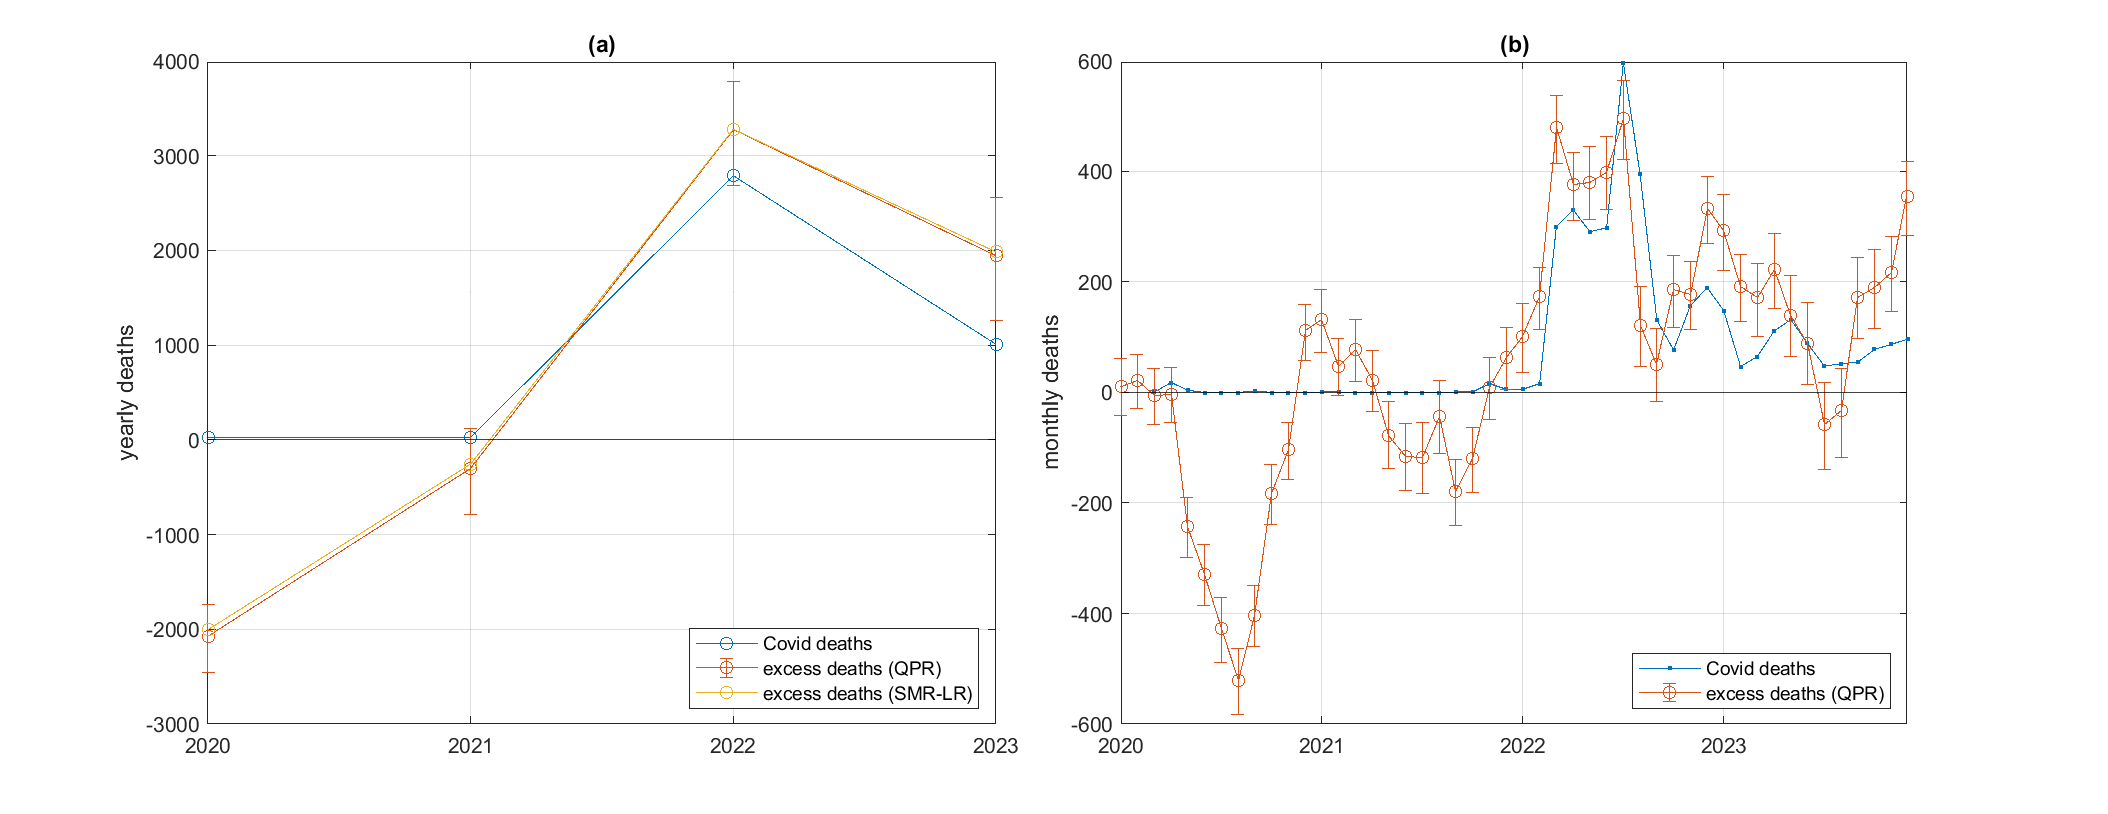
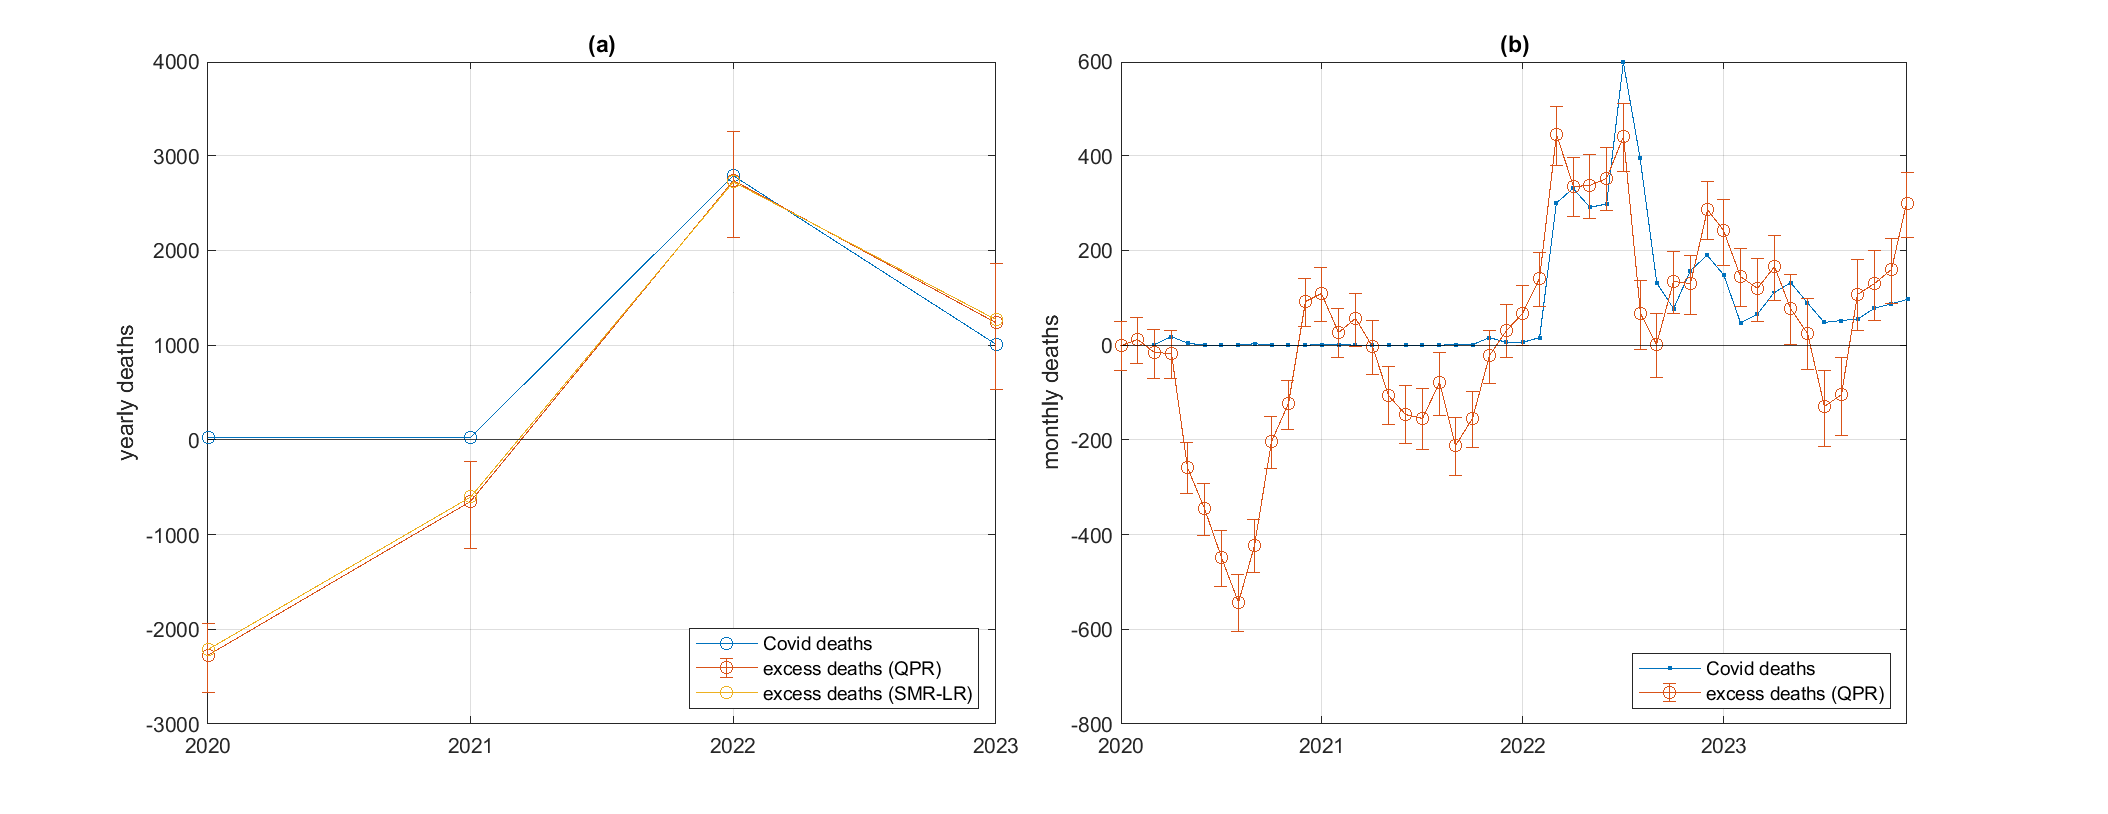
Added comparison plotting functionality
main now saves results for the selected scenario to enable plotting a comparison between the results using 2018 and 2023 ERP (done by plotComparisonGraphs.m)

diff --git a/Matlab/plotComparisonGraphs.m b/Matlab/plotComparisonGraphs.m
@@ -1,0 +1,64 @@
+clear
+close all
+
+% Folder and file locations 
+resultsFolder = "../results/";
+fIn2018 = resultsFolder + "results_ERP_2018_base.mat";
+fIn2023 = resultsFolder + "results_ERP_2023_base.mat";
+
+% Read in results for ERP 2018 base and 2023 base
+read2018 = load(fIn2018);
+read2023 = load(fIn2023);
+
+lightBlue = [0.7 0.7 1];
+lightRed = [1 0.7 0.7];
+
+% Plot expected and actual deaths in 10 year age bands
+ages = 0:10:90;
+nAges = length(ages);
+tRange = [2014, 2023];
+Alpha = 0.4;
+
+h = figure(1);
+h.Position = [95    89   904   879];
+tiledlayout(4, 3, "TileSpacing", "compact");
+for iAge = 1:nAges
+    nexttile;
+    ind2018 = read2018.results10.age10 == ages(iAge);
+    ind2023 = read2023.results10.age10 == ages(iAge);
+    [x, y] = getFillArgs(read2018.results10.Year(ind2018), read2018.results10.dCI(ind2018, 1), read2018.results10.dCI(ind2018, 2)); 
+    fill(x, y, lightBlue, 'LineStyle', 'none', 'FaceAlpha', Alpha, 'HandleVisibility', 'off' )
+    hold on
+    [x, y] = getFillArgs(read2023.results10.Year(ind2023), read2023.results10.dCI(ind2023, 1), read2023.results10.dCI(ind2023, 2)); 
+    fill(x, y, lightRed, 'LineStyle', 'none', 'FaceAlpha', Alpha, 'HandleVisibility', 'off' )
+    plot(read2018.results10.Year(ind2018), read2018.results10.dMean(ind2018), 'b-' )
+    plot(read2023.results10.Year(ind2023), read2023.results10.dMean(ind2023), 'r-' )
+    plot(read2023.results10.Year(ind2023), read2023.results10.deaths(ind2023), 'k.' )
+    xline(2019.5, 'k--')
+    xlim(tRange)
+    grid on
+    ylabel('yearly deaths')
+    if iAge < nAges
+        title(sprintf('%i-%i years', ages(iAge), ages(iAge)+9 ))
+    else
+        title('90+ years')
+    end
+end
+nexttile;
+[x, y] = getFillArgs(read2018.resultsYearly.Year, read2018.resultsYearly.dCI(:, 1), read2018.resultsYearly.dCI(:, 2)); 
+fill(x, y, lightBlue, 'LineStyle', 'none', 'FaceAlpha', Alpha, 'HandleVisibility', 'off' )
+hold on
+[x, y] = getFillArgs(read2023.resultsYearly.Year, read2023.resultsYearly.dCI(:, 1), read2023.resultsYearly.dCI(:, 2)); 
+fill(x, y, lightRed, 'LineStyle', 'none', 'FaceAlpha', Alpha, 'HandleVisibility', 'off' )
+plot(read2018.resultsYearly.Year, read2018.resultsYearly.dMean, 'b-' )
+plot(read2023.resultsYearly.Year, read2023.resultsYearly.dMean, 'r-' )
+plot(read2023.resultsYearly.Year, read2023.resultsYearly.deaths, 'k.' )
+xline(2019.5, 'k--')
+xlim(tRange)
+grid on
+ylabel('yearly deaths')
+title('total all ages')
+leg = legend('expected deaths (ERP 2018 base)', 'expected deaths (ERP 2023 base)', 'actual deaths');
+leg.Layout.Tile = 12;
+
+

diff --git a/Matlab/plotGraphs.m b/Matlab/plotGraphs.m
@@ -6,6 +6,7 @@ plotTitles = ["(a)", "(b)", "(c)", "(d)", "(e)", "(f)"];
 
 colOrd =colororder;
 lightBlue = [0.7 0.8 0.95];
+lightRed = [0.95 0.8 0.7];
 
 % Total aggregate deaths
 h = figure(1);
@@ -207,4 +208,45 @@ saveas(gcf, resultsFolder+"SuppFig1.png");
 
 
 
+% Plot expected and actual deaths in 10 year age bands
+ages = 0:10:90;
+nAges = length(ages);
+tRange = [2014, 2023];
+
+h = figure(6);
+h.Position = [95    89   904   879];
+tiledlayout(4, 3, "TileSpacing", "compact");
+for iAge = 1:nAges
+    nexttile;
+    ind = results10.age10 == ages(iAge);
+    [x, y] = getFillArgs(results10.Year(ind), results10.dCI(ind, 1), results10.dCI(ind, 2)); 
+    fill(x, y, lightBlue, 'LineStyle', 'none', 'FaceAlpha', 0.5, 'HandleVisibility', 'off' )
+    hold on
+    plot(results10.Year(ind), results10.dMean(ind), 'b-' )
+    plot(results10.Year(ind), results10.deaths(ind), 'k.' )
+    xline(2019.5, 'k--')
+    xlim(tRange)
+    grid on
+    ylabel('yearly deaths')
+    if iAge < nAges
+        title(sprintf('%i-%i years', ages(iAge), ages(iAge)+9 ))
+    else
+        title('90+ years')
+    end
+end
+nexttile;
+[x, y] = getFillArgs(resultsYearly.Year, resultsYearly.dCI(:, 1), resultsYearly.dCI(:, 2)); 
+fill(x, y, lightBlue, 'LineStyle', 'none', 'FaceAlpha', 0.5, 'HandleVisibility', 'off' )
+hold on
+plot(resultsYearly.Year, resultsYearly.dMean, 'b-' )
+plot(resultsYearly.Year, resultsYearly.deaths, 'k.' )
+xline(2019.5, 'k--')
+xlim(tRange)
+grid on
+ylabel('yearly deaths')
+title('total all ages')
+leg = legend('expected deaths', 'actual deaths');
+leg.Layout.Tile = 12;
+
+drawnow
 

diff --git a/Matlab/plotPopComparison.m b/Matlab/plotPopComparison.m
@@ -6,7 +6,7 @@ dataFolder = "../data/";
 
 
 % Data file names
-fNamePop2018 = dataFolder + "infoshare_ERP_quarterly.csv";
+fNamePop2018 = dataFolder + "infoshare_ERP_quarterly_2018_base.csv";
 fNamePop2023 = dataFolder + "infoshare_ERP_quarterly_2023_base.csv";
 
 % Read population data (admin pop data needs a call to a different function
@@ -56,7 +56,36 @@ plot(popTot2023.t, popTot2023.sum_sum_popSize, '.-')
 grid on
 xlim(tRange)
 ylabel('population size')
-title('total population')
+title('total all ages')
 leg = legend('original (ERP 2018 base)', 'updated (ERP 2023 base)');
 leg.Layout.Tile = 12;
 
+
+
+
+h = figure(2);
+h.Position = [95    89   904   879];
+tiledlayout(4, 3, "TileSpacing", "compact");
+for iAge = 1:nAges
+    nexttile;
+    ind = popData2018.age10 == ages(iAge);
+    plot(popData2018.t(ind), 100*(popData2023.sum_popSize(ind)./popData2018.sum_popSize(ind) - 1), '.-')
+    yline(0, 'k-')
+    ylabel('change in pop estmiate (%)')
+    xlim(tRange)
+    ylim([-5 1])
+    grid on
+    if iAge < nAges
+        title(sprintf('%i-%i years', ages(iAge), ages(iAge)+9 ))
+    else
+        title('90+ years')
+    end
+end
+nexttile;
+plot(popTot2018.t, 100*(popTot2023.sum_sum_popSize./popTot2018.sum_sum_popSize - 1), '.-')
+yline(0, 'k-')
+xlim(tRange)
+ylim([-5 1])
+grid on
+ylabel('change in pop estmiate (%)')
+title('total all ages')

diff --git a/Matlab/main.m b/Matlab/main.m
@@ -24,7 +24,7 @@ dataFolder = "../data/";
 resultsFolder = "../results/";
 
 % Data file names
-fNamePop = dataFolder + "infoshare_ERP_quarterly_2023_base.csv";
+fNamePop = dataFolder + "infoshare_ERP_quarterly_2018_base.csv";
 fNameCovidAge = dataFolder + "covid19_deaths_data_by_age.csv";
 fNameCovidSex = dataFolder + "covid19_deaths_data_by_sex.csv";
 
@@ -107,6 +107,12 @@ for iScenario = 1:nScenarios
     %%%%%%%%%%%%%%%%%%%%%%%%%%%%%%%%%%%%%%%%%%%%%%%%%%%%%%%%%%%%%%%%%%%%%%
     if plotFlag(iScenario)
         plotGraphs(tbl, resultsYearly, resultsMonthly, results10, resultsClasses, resultsSex, covidData, FIT_TO_YEAR, baselineYears(iScenario), ORIGIN_YEAR, covidAgeBreaks, resultsFolder);
+
+        % Save results10 and resultsYearly tables for reading back in and plotting comparison between ERP 2018 and 2023
+        fileLbl = extractBefore(extractAfter(fNamePop, "quarterly_"), ".csv");
+        fOut = resultsFolder + "results_ERP_" + fileLbl + ".mat";
+        save(fOut, 'results10', 'resultsYearly');
+
     end
 end
 

diff --git a/results/supp_table.tex b/results/supp_table.tex
@@ -2,12 +2,12 @@
 \hline
 Baseline period & \multicolumn{3}{l}{Excess (QPR)} & Excess (SMR-LR) \\ 
 \hline
-2016--2019    &    -1124 [ & -3199, & 622]   &   -923 \\ 
-2015--2019    &    428 [ & -1198, & 1937]   &   577 \\ 
-2014--2019    &    899 [ & -556, & 2153]   &   1021 \\ 
-2013--2019    &    -202 [ & -1498, & 969]   &   -282 \\ 
-2012--2019    &    703 [ & -450, & 1729]   &   804 \\ 
-2011--2019    &    1732 [ & 700, & 2674]   &   1957 \\ 
-2010--2019    &    1214 [ & 254, & 2070]   &   1317 \\ 
+2016--2019    &    -1984 [ & -4080, & -213]   &   -1812 \\ 
+2015--2019    &    -569 [ & -2214, & 961]   &   -443 \\ 
+2014--2019    &    -195 [ & -1668, & 1081]   &   -93 \\ 
+2013--2019    &    -1385 [ & -2695, & -200]   &   -1496 \\ 
+2012--2019    &    -526 [ & -1687, & 512]   &   -456 \\ 
+2011--2019    &    464 [ & -581, & 1421]   &   660 \\ 
+2010--2019    &    -98 [ & -1069, & 769]   &   -26 \\ 
 \hline
 \end{tabular}

diff --git a/results/table.tex b/results/table.tex
@@ -2,12 +2,12 @@
 \hline
 Baseline period & \multicolumn{3}{l}{Excess (QPR)} & Excess (SMR-LR) \\ 
 \hline
-2016--2019    &    -316 [ & -3472, & 2349]   &   -9 \\ 
-2015--2019    &    2118 [ & -303, & 4369]   &   2325 \\ 
-2014--2019    &    2849 [ & 705, & 4712]   &   3005 \\ 
-2013--2019    &    1168 [ & -711, & 2889]   &   1031 \\ 
-2012--2019    &    2532 [ & 894, & 4018]   &   2661 \\ 
-2011--2019    &    4073 [ & 2603, & 5423]   &   4375 \\ 
-2010--2019    &    3298 [ & 1925, & 4527]   &   3430 \\ 
+2016--2019    &    -1770 [ & -4973, & 924]   &   -1489 \\ 
+2015--2019    &    456 [ & -1999, & 2743]   &   641 \\ 
+2014--2019    &    1040 [ & -1134, & 2927]   &   1177 \\ 
+2013--2019    &    -784 [ & -2687, & 963]   &   -948 \\ 
+2012--2019    &    510 [ & -1152, & 2018]   &   611 \\ 
+2011--2019    &    1995 [ & 500, & 3368]   &   2271 \\ 
+2010--2019    &    1148 [ & -246, & 2402]   &   1258 \\ 
 \hline
 \end{tabular}

diff --git a/README.md b/README.md
@@ -1,8 +1,8 @@
 # Estimating excess mortality during the Covid-19 pandemic in Aotearoa New Zealand
 
-This repository contains data and code for estimating excess mortality in Aotearoa New Zealand during the Covid-19 pandemic and should be read in conjunction with the accompanying article "Estimating excess mortality during the Covid-19 pandemic in Aotearoa New Zealand".
+This repository contains data and code for estimating excess mortality in Aotearoa New Zealand during the Covid-19 pandemic and should be read in conjunction with the accompanying article [Estimating excess mortality during the Covid-19 pandemic in Aotearoa New Zealand](https://academic.oup.com/ije/article/54/4/dyaf093/8163015).
 
-A preprint of the article is available [here](https://arxiv.org/abs/2412.08927). Results in this version were generated using the version of this repository tagged v1.0.
+A preprint of the article is available [here](https://arxiv.org/abs/2412.08927). Results in the pre-print and the [final published article](https://academic.oup.com/ije/article/54/4/dyaf093/8163015) were generated using the version of this repository tagged v1.0, which is also archived as [Zenodo archive](https://dx.doi.org/10.5281/zenodo.15107131). 
 
 ## Abstract
 
